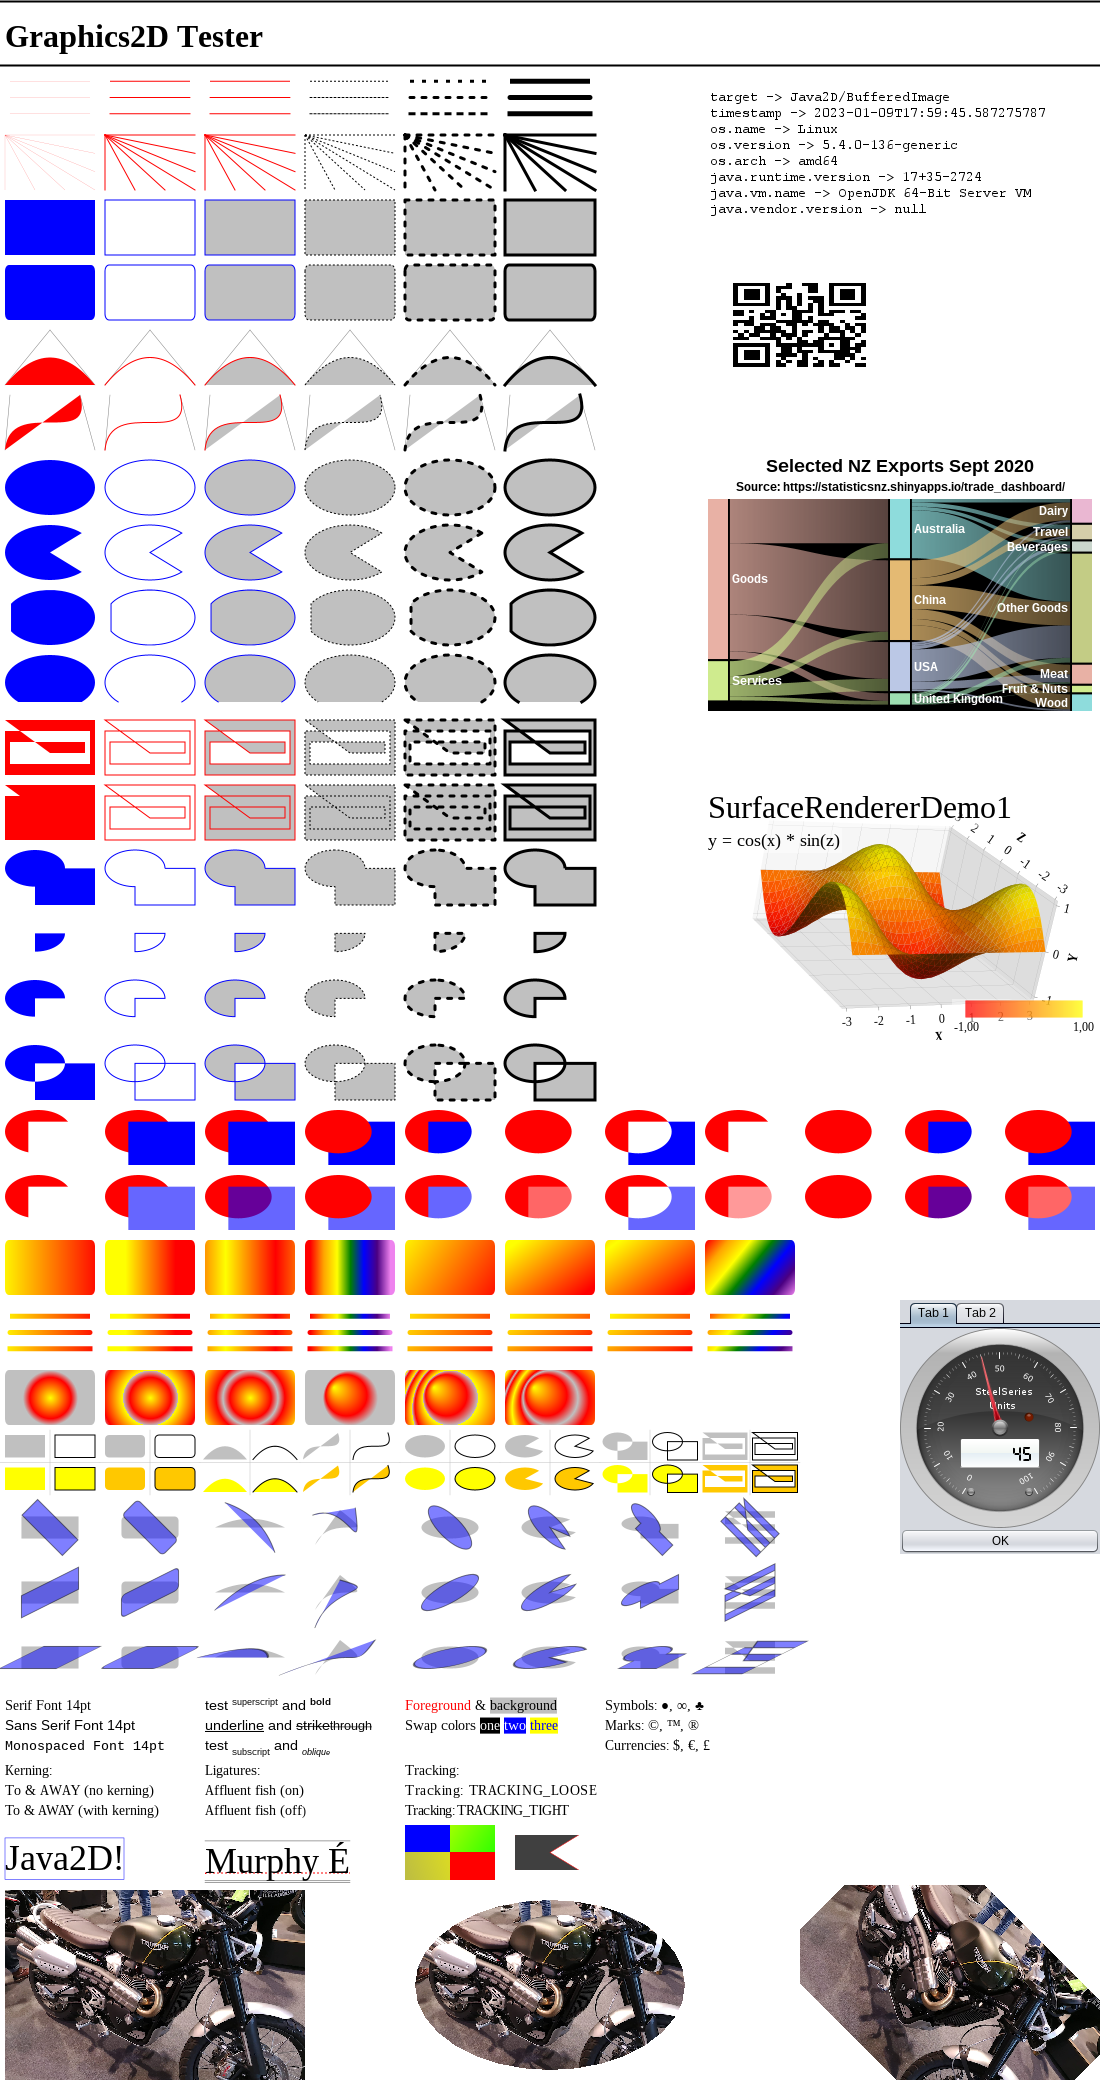
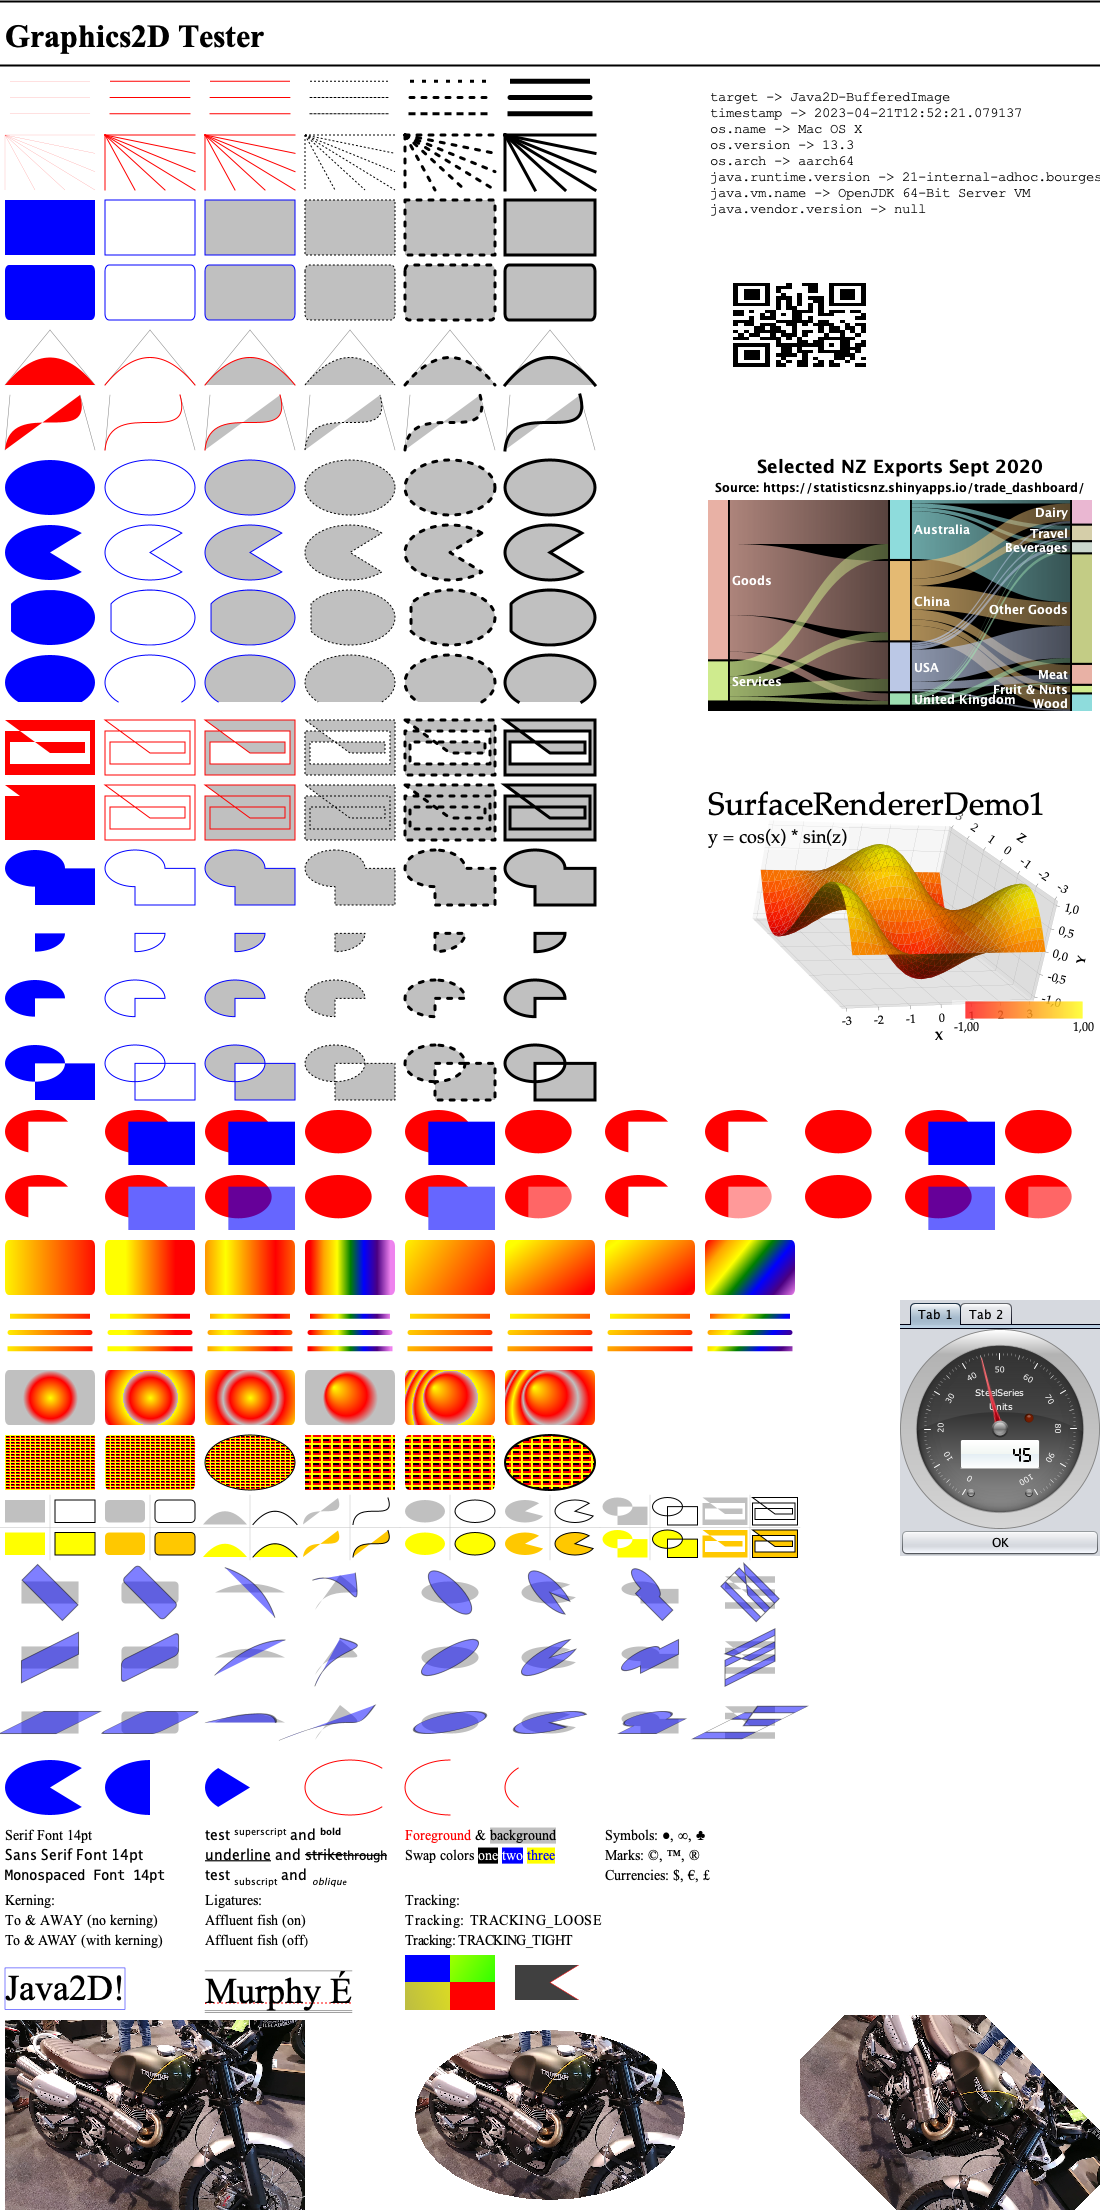
Added test on Java2D Volatile image (accelerated pipeline depending on the OS)

diff --git a/g2d-core/src/main/java/org/jfree/graphics2d/Tester.java b/g2d-core/src/main/java/org/jfree/graphics2d/Tester.java
@@ -38,6 +38,7 @@ import java.awt.geom.QuadCurve2D;
 import java.awt.geom.Rectangle2D;
 import java.awt.geom.RoundRectangle2D;
 import java.awt.image.BufferedImage;
+import java.awt.image.VolatileImage;
 import java.io.File;
 import java.io.IOException;
 import java.time.LocalDateTime;
@@ -959,33 +960,94 @@ public class Tester {
         }
     }
 
+    private interface G2DProvider {
+
+        void create(int width, int height);
+
+        Graphics2D createGraphics();
+
+        BufferedImage getSnapshot();
+
+        String getName();
+    }
+
+    private final static class BufferedImageG2DProvider implements G2DProvider {
+        public final static G2DProvider INSTANCE =  new BufferedImageG2DProvider();
+        private BufferedImage image = null;
+
+        @Override
+        public void create(int width, int height) {
+            this.image = new BufferedImage(width, height, BufferedImage.TYPE_INT_ARGB);
+        }
+
+        @Override
+        public Graphics2D createGraphics() {
+            return image.createGraphics();
+        }
+
+        @Override
+        public BufferedImage getSnapshot() {
+            return image;
+        }
+
+        @Override
+        public String getName() {
+            return "Java2D-BufferedImage";
+        }
+    }
+
+    private final static class VolatileImageG2DProvider implements G2DProvider {
+        public static final G2DProvider INSTANCE =  new VolatileImageG2DProvider();
+        private final static GraphicsConfiguration gc =
+                GraphicsEnvironment.getLocalGraphicsEnvironment().getDefaultScreenDevice().getDefaultConfiguration();
+
+        private VolatileImage image = null;
+
+        VolatileImageG2DProvider() {}
+
+        @Override
+        public void create(int width, int height) {
+            this.image = gc.createCompatibleVolatileImage(width, height, Transparency.TRANSLUCENT);
+        }
+
+        @Override
+        public Graphics2D createGraphics() {
+            return image.createGraphics();
+        }
+
+        @Override
+        public BufferedImage getSnapshot() {
+            return image.getSnapshot();
+        }
+
+        @Override
+        public String getName() {
+            return "Java2D-VolatileImage";
+        }
+    }
+
     /**
      * Run the tests with a Graphics2D from a Java2D BufferedImage and save
      * the results to the specified file.
      *
-     * @param fileName  the PNG file name.
-     * @param single  set to true if just generating a single test
-     *
      * @throws IOException if there is an I/O problem.
      */
-    private static void testJava2D(String fileName, boolean single) throws IOException {
-        if (single) {
-            fileName += "-single.png";
-        } else {
-            fileName += ".png";
-        }
+    private static void testJava2D(G2DProvider provider) throws IOException {
+        final String test = provider.getName();
+        final String fileName = test + ".png";
+
         // Prepare context:
         final TesterContext tc = prepareTestOutput(
-                "Java2D/BufferedImage",
-                "https://github.com/jfree", single);
+                provider.getName(),
+                "https://github.com/jfree", false);
 
         final int width = Tester.getTestSheetWidth();
         final int height = Tester.getTestSheetHeight();
 
-        final BufferedImage image = new BufferedImage(width, height, BufferedImage.TYPE_INT_ARGB);
+        provider.create(width, height);
 
         for (int i = 0; i < REPEATS; i++) {
-            final Graphics2D g2 = image.createGraphics();
+            final Graphics2D g2 = provider.createGraphics();
             g2.setRenderingHint(RenderingHints.KEY_ANTIALIASING, RenderingHints.VALUE_ANTIALIAS_OFF);
             g2.setBackground(Color.WHITE);
             g2.clearRect(0, 0, width, height);
@@ -1001,9 +1063,10 @@ public class Tester {
                 // image is ready
 
                 final double elapsedTime = 1e-6d * (System.nanoTime() - startTime);
-                System.out.println("drawTestOutput(Java2D) duration = " + elapsedTime + " ms.");
+                System.out.println("drawTestOutput("+test+") duration = " + elapsedTime + " ms.");
 
                 if (i == 0) {
+                    final BufferedImage image = provider.getSnapshot();
                     try {
                         ImageIO.write(image, "png", new File(fileName));
                     } catch (IOException e) {
@@ -1014,7 +1077,7 @@ public class Tester {
             } finally {
                 g2.dispose();
             }
-        }
+        } // loop
     }
 
     private static JComponent createContent() {
@@ -1081,8 +1144,9 @@ public class Tester {
         // ensure no hi-dpi to ensure scale = 1.0:
         System.out.println("Use 'java -Dsun.java2d.uiScale=1.0 ...' ");
 
-        boolean single = false;
-        testJava2D("java2D", single);
+        testJava2D(BufferedImageG2DProvider.INSTANCE);
+        testJava2D(VolatileImageG2DProvider.INSTANCE);
+
         System.exit(0);
     }
 
